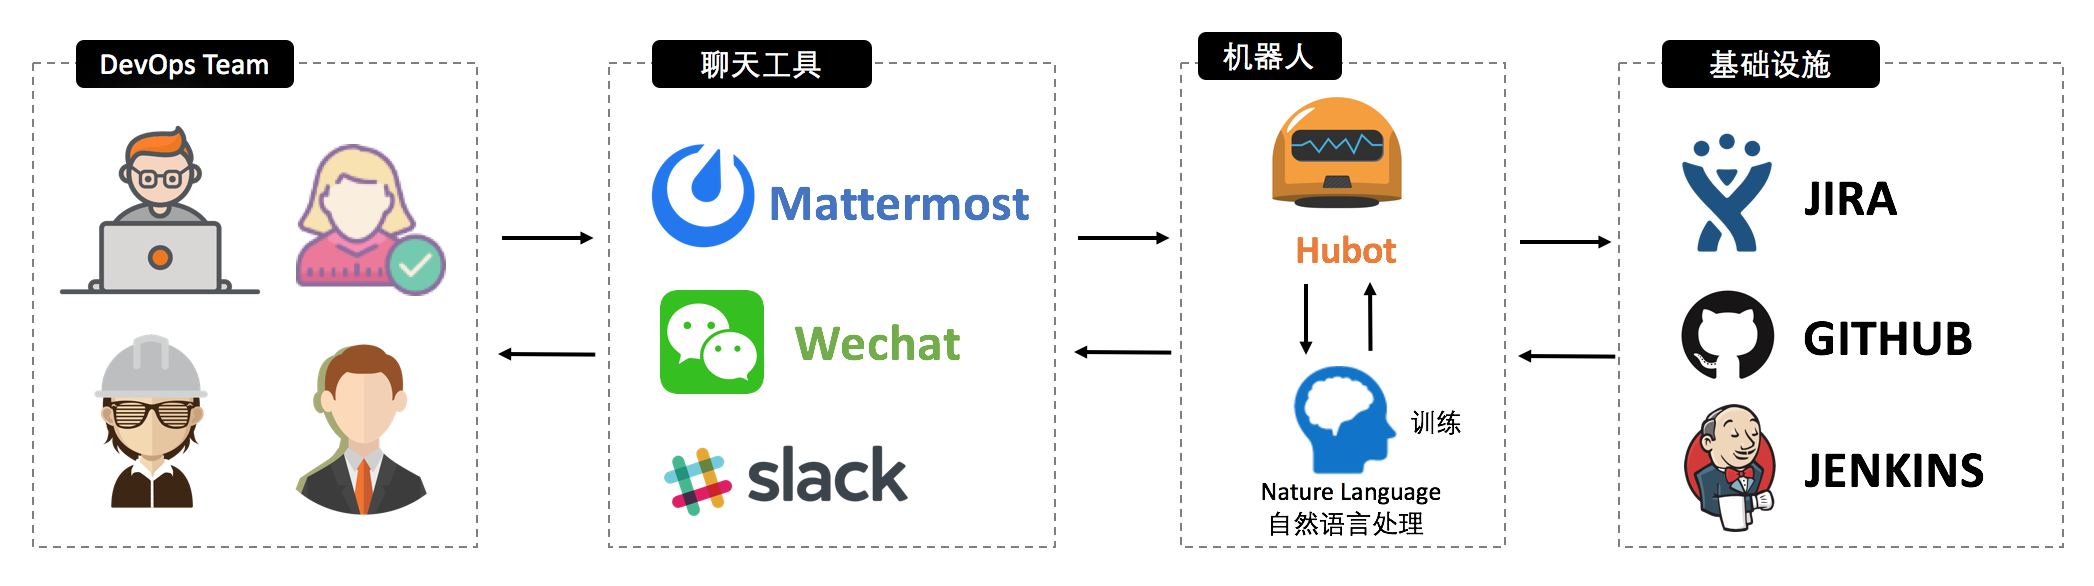
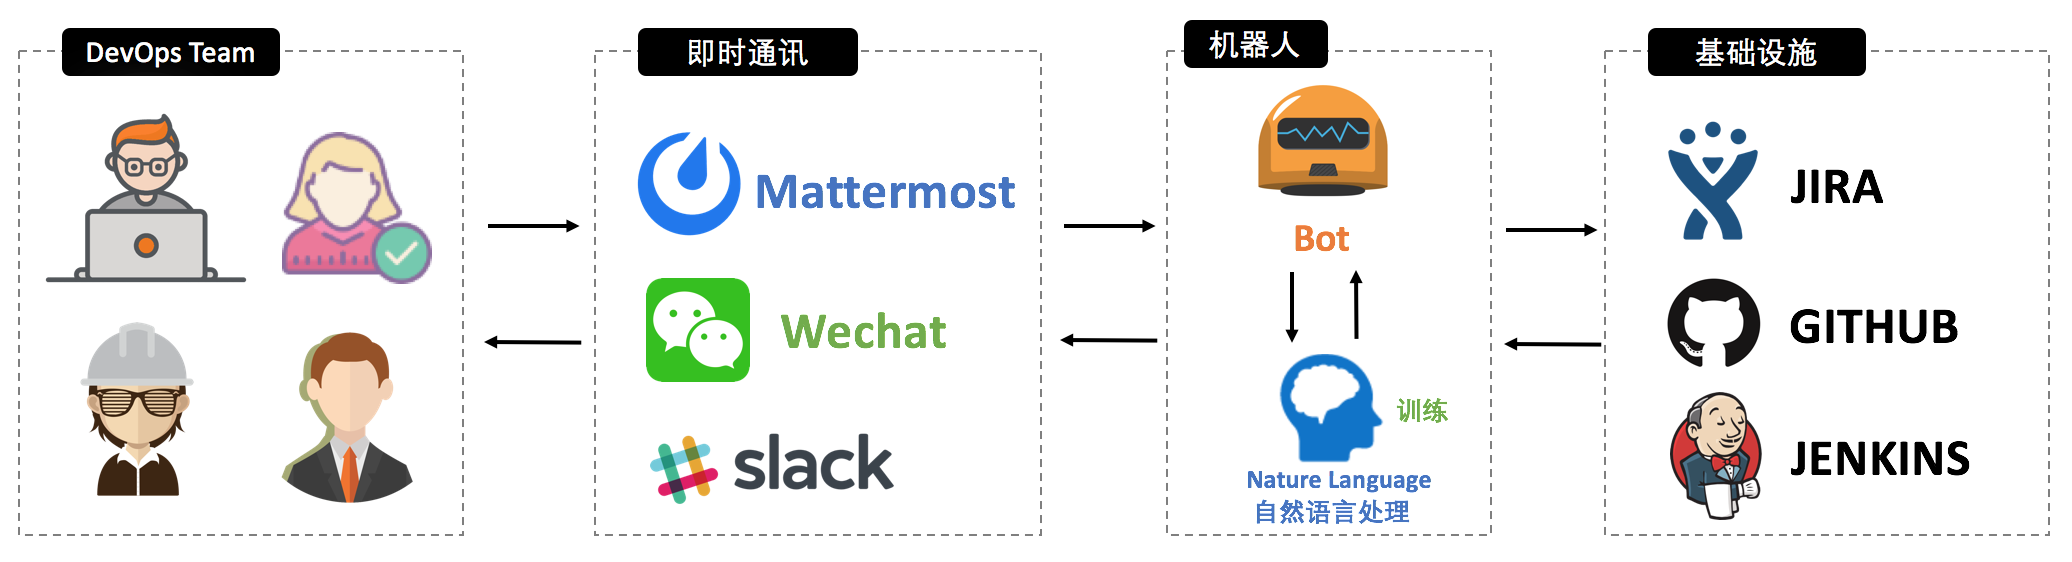
更新markdown

diff --git a/README.md b/README.md
@@ -50,7 +50,7 @@ docker-compose up -d
 
 ## ChatOps && AIOps
 
-本项目将添加ChatOps工具链，让开发、测试、人员可以在IM即时通讯工具里已聊天的方式完成相应的工作。
+本项目将支持ChatOps && AIOps，让开发、测试、客户可以在IM即时通讯工具里以聊天的方式完成相应的工作。
 
 ![markdown](/images/boathouse-structure-chatops.png "markdown")
 
